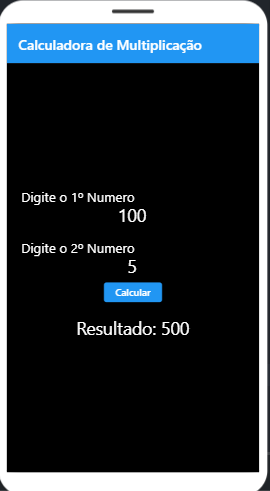
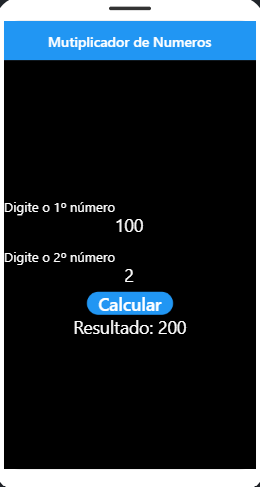
Melhorando Codigo

Changed region(s): [[0.0, 0.0, 1.0, 1.0]]

diff --git a/main.dart b/main.dart
@@ -1,89 +1,104 @@
 import 'package:flutter/material.dart';
 
-void main() {
-  runApp(CalculadoraApp());
-}
+void main() => runApp(MyApp());
 
-class CalculadoraApp extends StatelessWidget {
+class MyApp extends StatelessWidget {
+  const MyApp({Key? key}) : super(key: key);
+
   @override
   Widget build(BuildContext context) {
-    return MaterialApp(
-      title: 'Calculadora de Multiplicação',
-      debugShowCheckedModeBanner: false,
-      theme: ThemeData(
-        primarySwatch: Colors.blue,
-      ),
-      home: CalculadoraScreen(),
-    );
+    return TelaInicial();
   }
 }
 
-class CalculadoraScreen extends StatefulWidget {
+class TelaInicial extends StatefulWidget {
+  const TelaInicial({Key? key}) : super(key: key);
+
   @override
-  _CalculadoraScreenState createState() => _CalculadoraScreenState();
+  _TelaInicialState createState() => _TelaInicialState();
 }
 
-class _CalculadoraScreenState extends State<CalculadoraScreen> {
-  double numero1 = 0;
-  double numero2 = 0;
+class _TelaInicialState extends State<TelaInicial> {
+  TextEditingController num1Controller = TextEditingController();
+  TextEditingController num2Controller = TextEditingController();
   double resultado = 0;
+
+  void _calcular() {
+    double num1 = double.tryParse(num1Controller.text) ?? 0;
+    double num2 = double.tryParse(num2Controller.text) ?? 0;
+
+    setState(() {
+      resultado = num1 * num2;
+    });
+  }
 
   @override
   Widget build(BuildContext context) {
-    return Scaffold(
-      appBar: AppBar(
-        title: Text('Calculadora de Multiplicação'),
+    return MaterialApp(
+      debugShowCheckedModeBanner: false,
+      theme: ThemeData(primaryColor: Colors.blue),
+      home: Scaffold(
+        appBar: AppBar(
+          title: Text("Mutiplicador de Numeros"),
+          centerTitle: true,
+        ),
+        body: _body(),
       ),
-      body: Container(
-        color: Colors.black, // Fundo preto
-        padding: EdgeInsets.all(20),
-        child: Center(
-          child: Column(
-            mainAxisAlignment: MainAxisAlignment.center,
-            children: <Widget>[
-              TextField(
-                keyboardType: TextInputType.number,
-                decoration: InputDecoration(
-                    labelText: 'Digite o 1º Numero',
-                    labelStyle: TextStyle(color: Colors.white)),
-                textAlign: TextAlign.center,
-                style: TextStyle(color: Colors.white, fontSize: 25.0),
-                onChanged: (value) {
-                  setState(() {
-                    numero1 = double.tryParse(value) ?? 0;
-                  });
-                },
-              ),
-              TextField(
-                keyboardType: TextInputType.number,
-                decoration: InputDecoration(
-                    labelText: 'Digite o 2º Numero',
-                    labelStyle: TextStyle(color: Colors.white)),
-                textAlign: TextAlign.center,
-                style: TextStyle(color: Colors.white, fontSize: 25.0),
-                onChanged: (value) {
-                  setState(() {
-                    numero2 = double.tryParse(value) ?? 0;
-                  });
-                },
-              ),
-              ElevatedButton(
-                onPressed: () {
-                  setState(() {
-                    resultado = numero1 * numero2;
-                  });
-                },
-                child: Text('Calcular'),
-              ),
-              SizedBox(height: 20),
-              Text(
-                'Resultado: $resultado',
-                style: TextStyle(
-                    fontSize: 25, color: Colors.white), // Texto branco
-              ),
-              SizedBox(height: 20),
-            ],
-          ),
+    );
+  }
+
+  _body() {
+    return Container(
+      width: double.infinity,
+      color: Colors.black,
+      child: Column(
+        mainAxisSize: MainAxisSize.max,
+        mainAxisAlignment: MainAxisAlignment.center,
+        crossAxisAlignment: CrossAxisAlignment.center,
+        children: <Widget>[
+          _campo(num1Controller, "Digite o 1º número"),
+          _campo(num2Controller, "Digite o 2º número"),
+          _button(),
+          _resultado(),
+        ],
+      ),
+    );
+  }
+
+  _campo(TextEditingController controller, String labelText) {
+    return TextField(
+      keyboardType: TextInputType.number,
+      decoration: InputDecoration(
+        labelText: labelText,
+        labelStyle: TextStyle(color: Colors.white),
+      ),
+      textAlign: TextAlign.center,
+      style: TextStyle(color: Colors.white, fontSize: 25.0),
+      controller: controller,
+    );
+  }
+
+  _resultado() {
+    return Text(
+      "Resultado: $resultado",
+      style: TextStyle(fontSize: 25, color: Colors.white),
+    );
+  }
+
+  _button() {
+    return ElevatedButton(
+      style: ElevatedButton.styleFrom(
+        primary: Colors.blue,
+        shape: RoundedRectangleBorder(
+          borderRadius: BorderRadius.circular(100.0),
+        ),
+      ),
+      onPressed: _calcular,
+      child: Text(
+        "Calcular",
+        style: TextStyle(
+          color: Colors.white,
+          fontSize: 25,
         ),
       ),
     );
